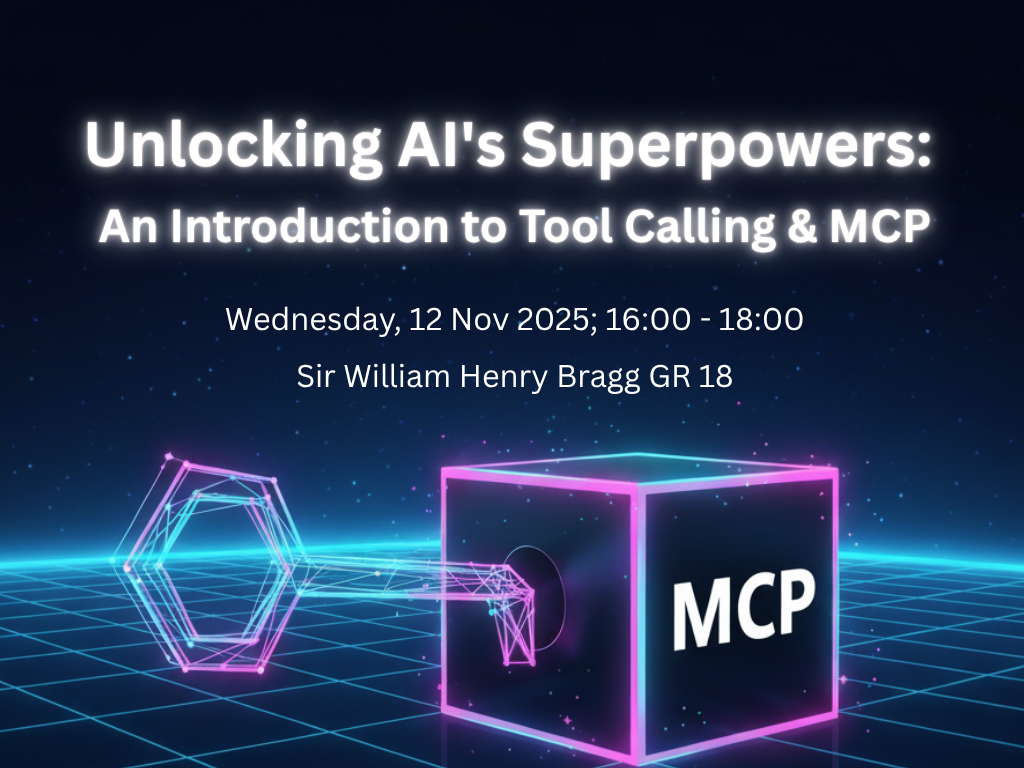
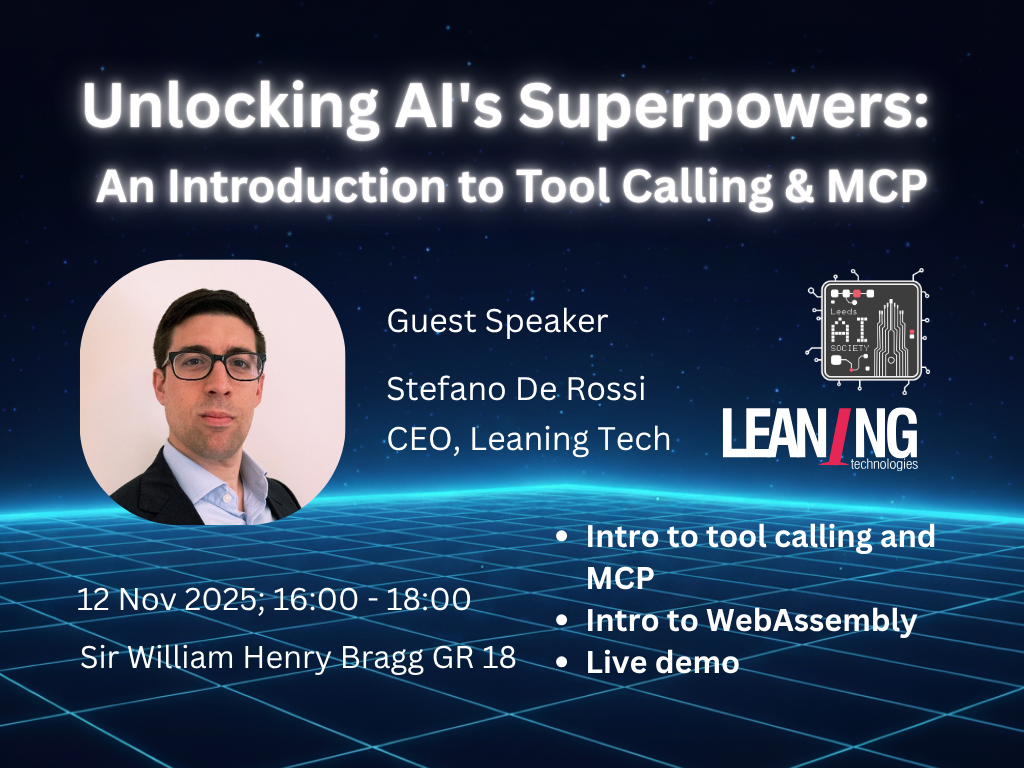
chore(events): add the new events

diff --git a/app/(page)/events/page.tsx b/app/(page)/events/page.tsx
@@ -5,13 +5,13 @@ import Link from "next/link";
 // Placeholder data.
 const upcoming = [
   {
-    title: "AI On Your Own Device: Running AI Models Locally!",
-    date: "2025-11-05",
-    time: "16:00-18:00",
+    title: "Next Level: An Introduction to Agentic AI",
+    date: "2025-11-10",
+    time: "18:30-19:30",
     location: "Sir William Henry Bragg (GR.18)",
     badge: "Workshop",
-    image: "/events/AI On Your Own Device.png",
-    url: "https://engage.luu.org.uk/events/3R4HB/ai-on-your-own-device-running-ai-models-locally",
+    image: "/events/Agentic AI.png",
+    url: "https://engage.luu.org.uk/events/KYQ32/next-level-an-introduction-to-agentic-ai",
   },
   {
     title: "Unlocking AI's Superpowers: An Introduction to Tool Calling & MCP",
@@ -33,6 +33,16 @@ const upcoming = [
 ];
 
 const past = [
+  {
+    title: "AI On Your Own Device: Running AI Models Locally!",
+    date: "2025-11-05",
+    time: "16:00-18:00",
+    location: "Sir William Henry Bragg (GR.18)",
+    badge: "Workshop",
+    image: "/events/AI On Your Own Device.png",
+    url: "https://engage.luu.org.uk/events/3R4HB/ai-on-your-own-device-running-ai-models-locally",
+    blog_url: "https://www.leedsaisoc.co.uk/blog/local-ai",
+  },
   {
     title: "Leeds <hack_ai_thon>",
     date: "2025-10-11",
@@ -282,6 +292,7 @@ type EventItem = {
   badge: string;
   image: string;
   url?: string;
+  blog_url?: string;
 };
 
 function EventGrid({
@@ -408,6 +419,15 @@ function EventGrid({
                 >
                   More details soon
                 </p>
+              )}
+
+              {e?.blog_url && (
+                <Link
+                  href={e?.blog_url}
+                  className="[color:#eb5b6c] hover:text-white text-sm font-medium inline-flex items-center gap-2"
+                >
+                  Blog <span aria-hidden>→</span>
+                </Link>
               )}
 
               {/* {isPast ? (

diff --git a/app/(page)/page.tsx b/app/(page)/page.tsx
@@ -4,14 +4,13 @@ import Link from "next/link";
 export default function LandingWireframeNeon() {
   const upcomingEvent = [
     {
-      title: "AI On Your Own Device: Running AI Models Locally!",
-      date: "2025-11-05",
-      time: "16:00-18:00",
+      title: "Next Level: An Introduction to Agentic AI",
+      date: "2025-11-10",
+      time: "18:30-19:30",
       location: "Sir William Henry Bragg (GR.18)",
       badge: "Workshop",
-      image: "/events/AI On Your Own Device.png",
-      url: "https://engage.luu.org.uk/events/3R4HB/ai-on-your-own-device-running-ai-models-locally",
-      blog_url: "https://www.leedsaisoc.co.uk/blog/local-ai",
+      image: "/events/Agentic AI.png",
+      url: "https://engage.luu.org.uk/events/KYQ32/next-level-an-introduction-to-agentic-ai",
     },
     {
       title:
@@ -229,15 +228,6 @@ export default function LandingWireframeNeon() {
                     <p className="[color:#eb5b6c] hover:text-white text-sm font-medium inline-flex items-center gap-2">
                       More details soon
                     </p>
-                  )}
-
-                  {e.blog_url && (
-                    <Link
-                      href={e.blog_url}
-                      className="[color:#eb5b6c] hover:text-white text-sm font-medium inline-flex items-center gap-2"
-                    >
-                      Blog <span aria-hidden>→</span>
-                    </Link>
                   )}
 
                   {/* <Link
